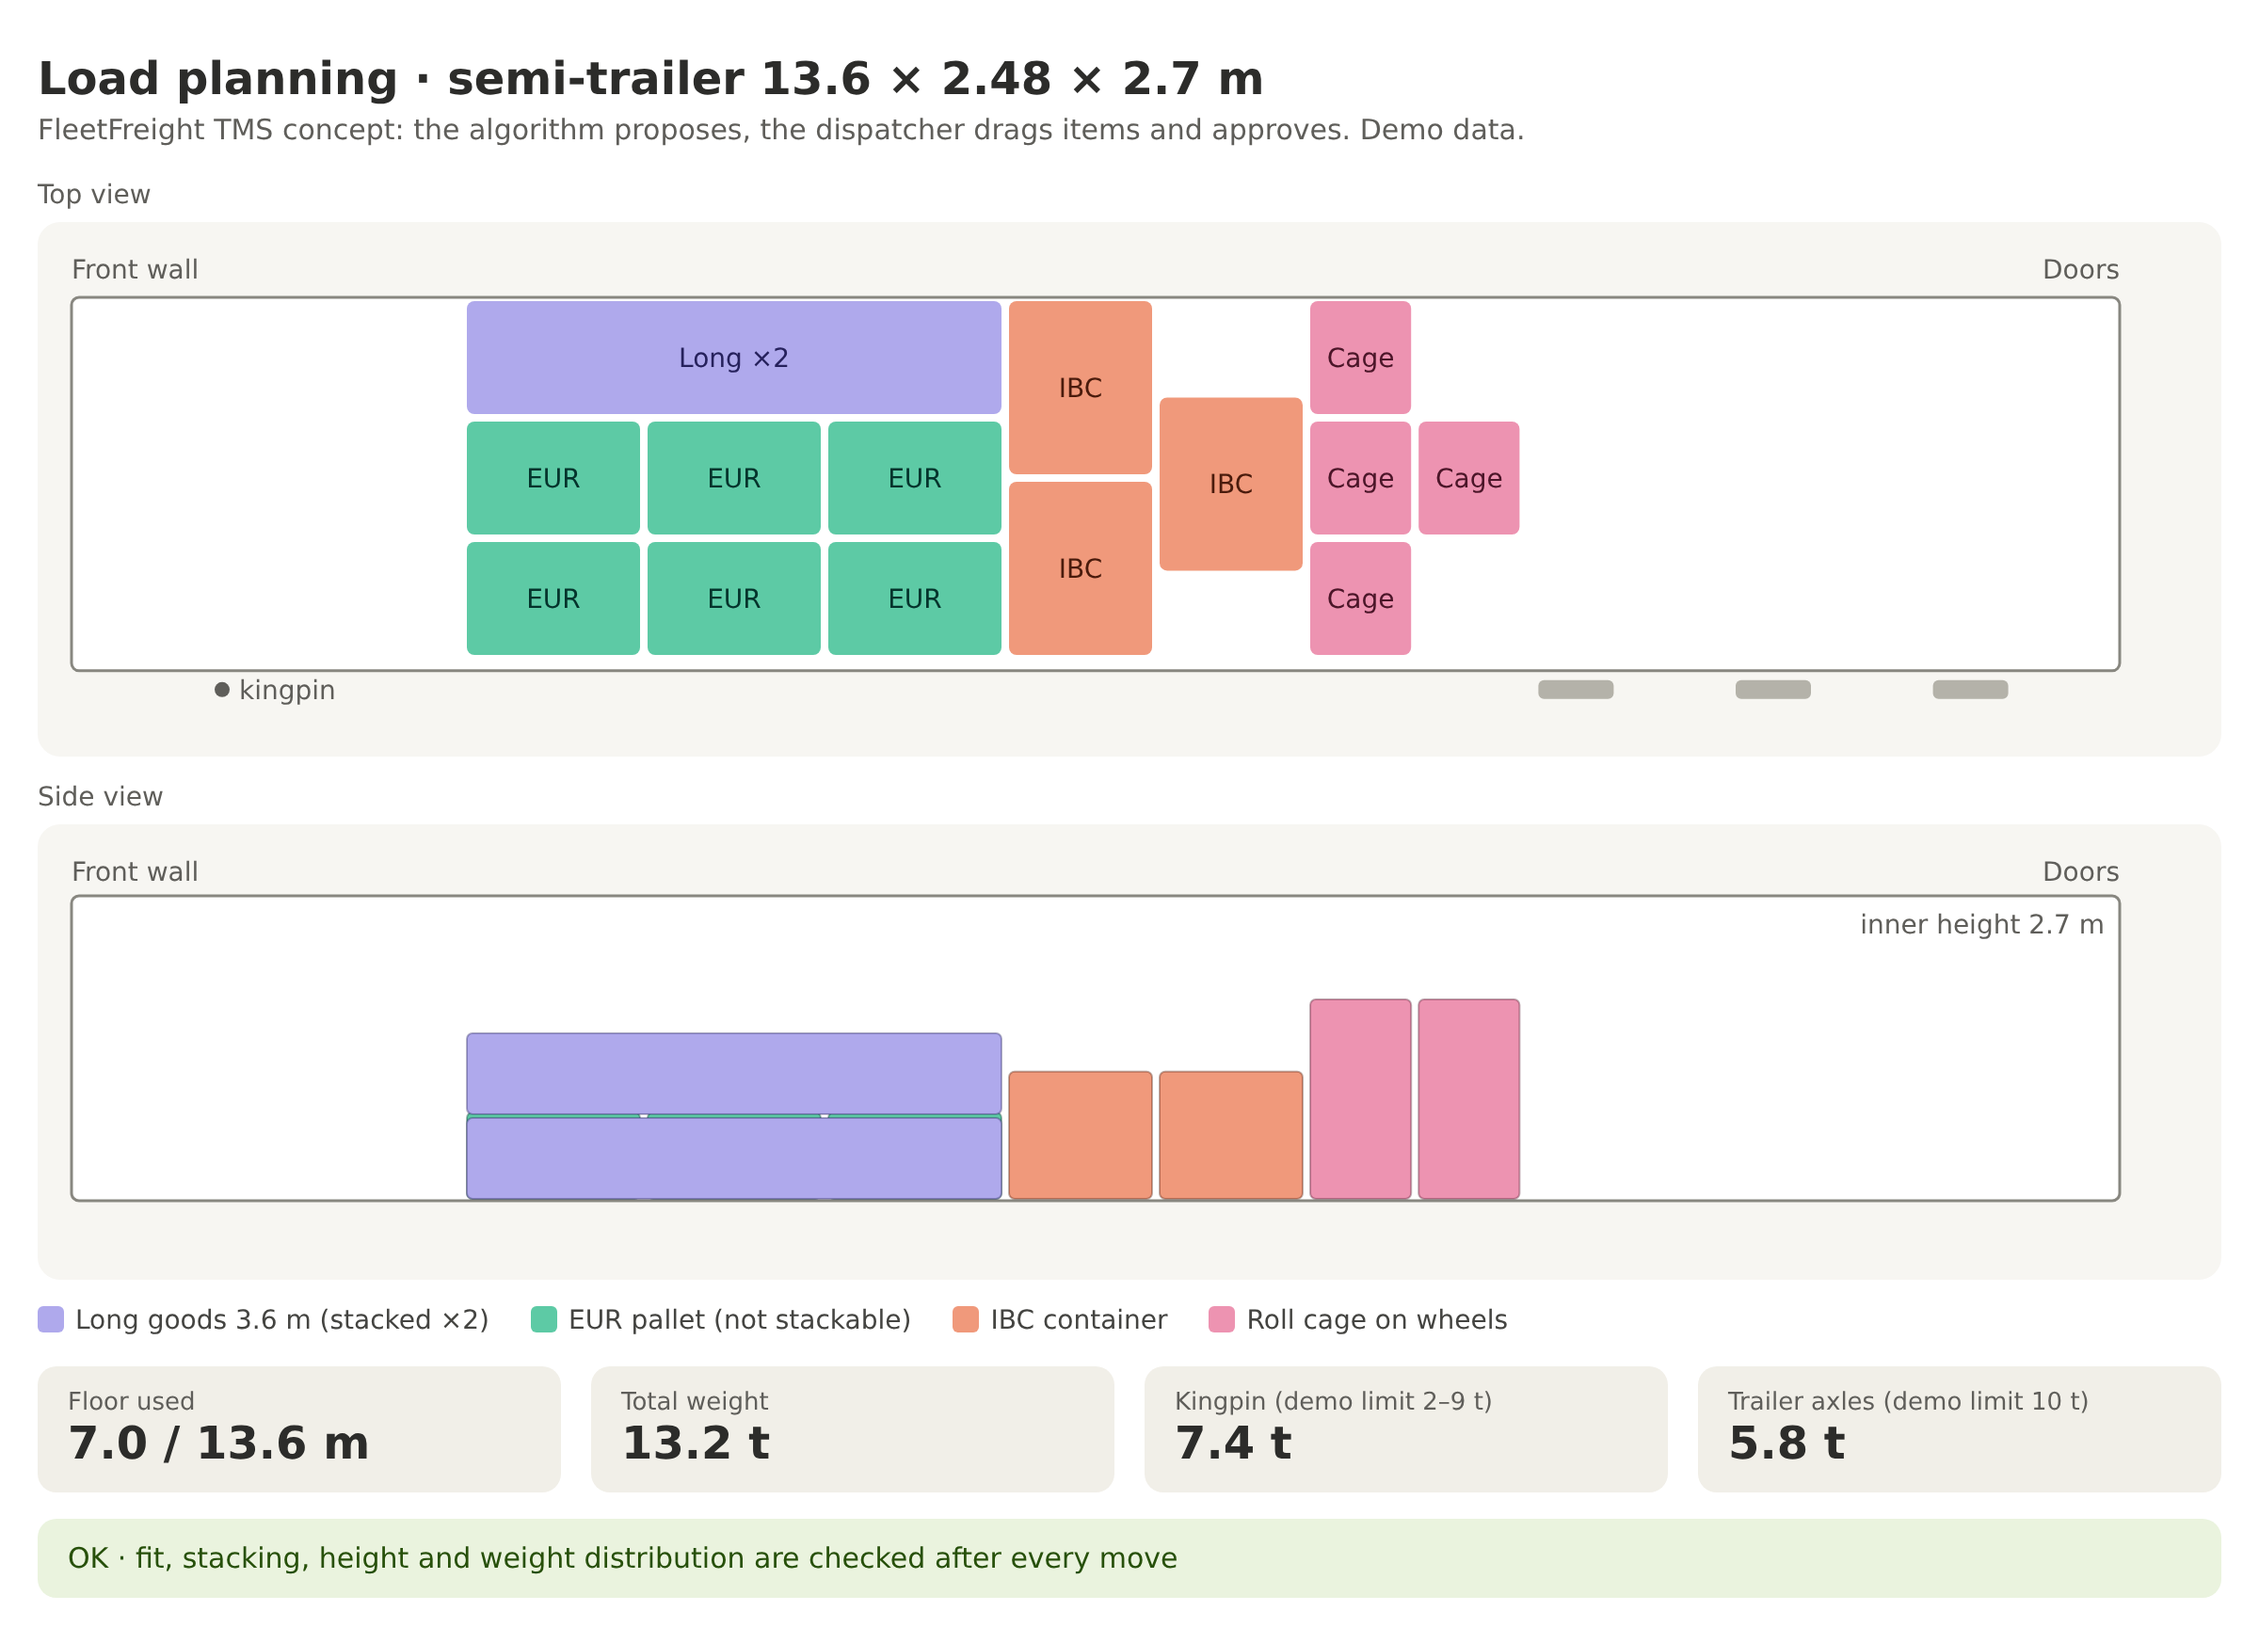
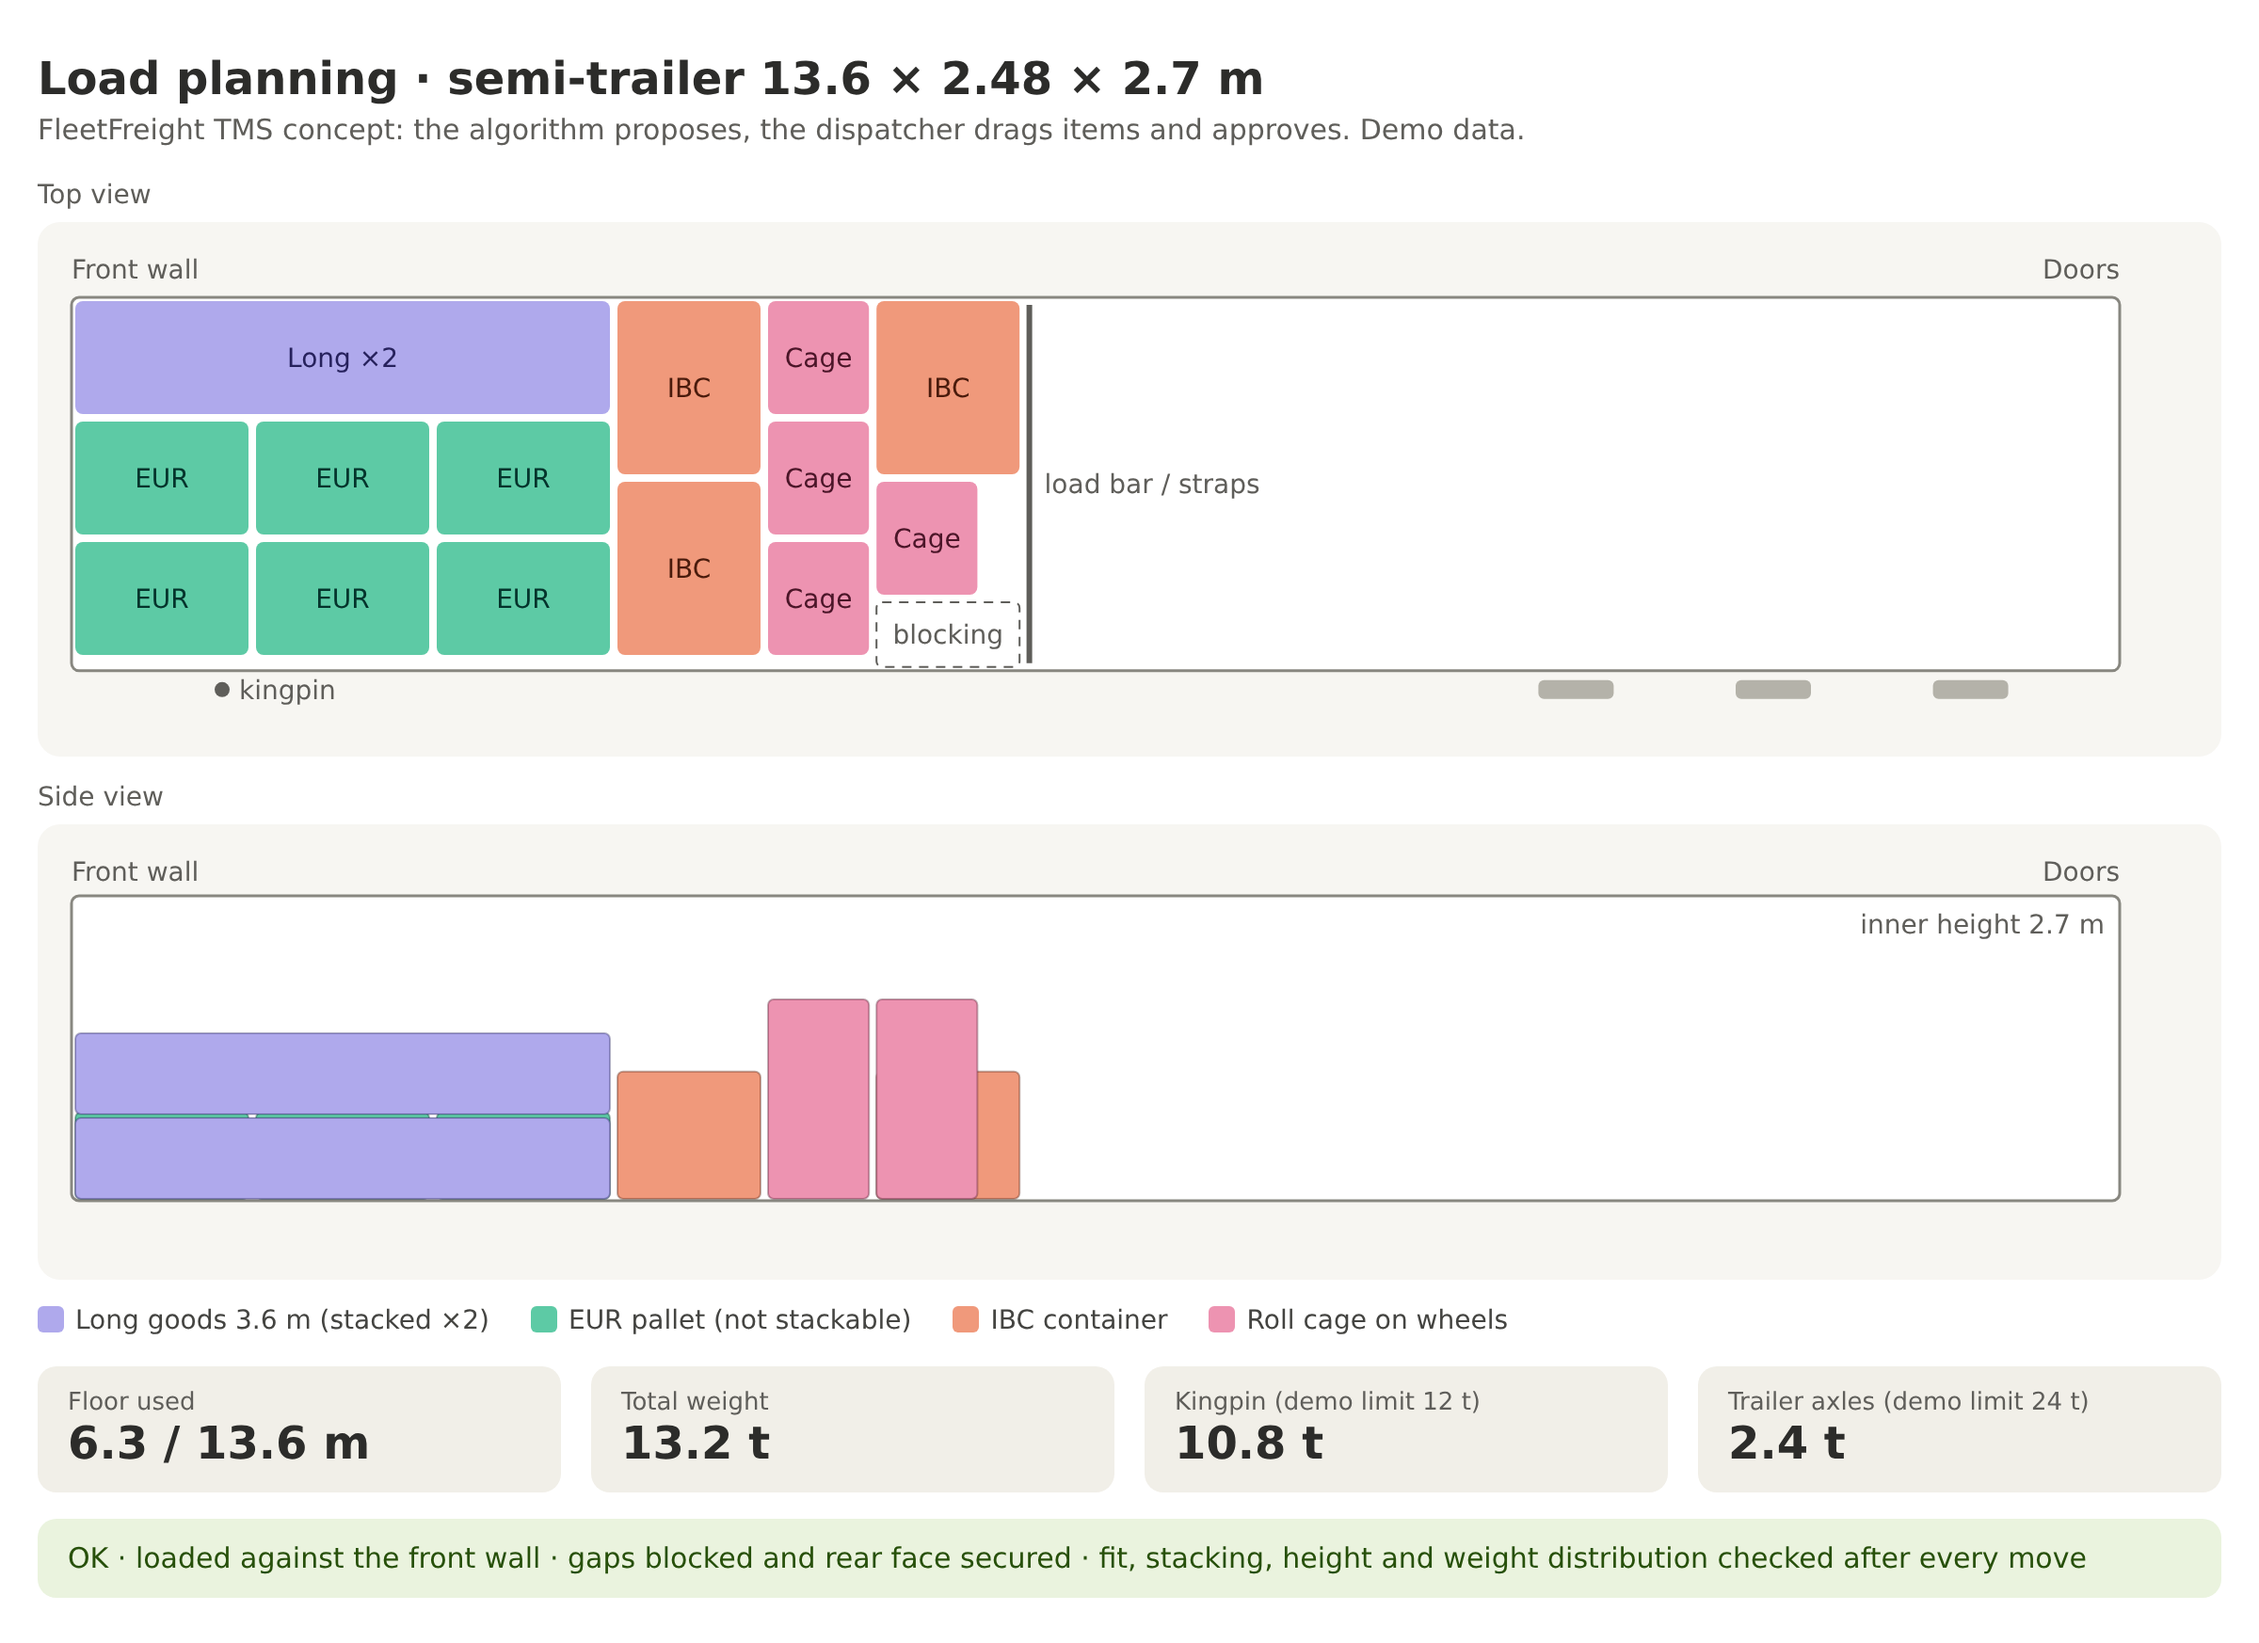
Load the concept images against the front wall
The load now starts at the front wall, IBCs and roll cages sit tight,
the remaining gap is blocked and the rear face secured. The kingpin
and axle figures follow from the new layout.

Claude-Session: https://claude.ai/code/session_01Nsn4RbPU1USiAvFXFpWMMJ

diff --git a/docs/lastaussuunnittelu.md b/docs/lastaussuunnittelu.md
@@ -95,7 +95,7 @@ Rajat kirjataan lähteistä kuten maiden painorajat (D89, D90).
 
 ![3D-näkymä](images/load-planning-3d.png)
 
-Kuvat ovat konseptiluonnoksia demodatalla (englanninkieliset tekstit README:tä varten); IBC:n ja häkkilavan mitat ovat tyyppimittoja, painorajat demoarvoja.
+Kuvat ovat konseptiluonnoksia demodatalla (englanninkieliset tekstit README:tä varten); IBC:n ja häkkilavan mitat ovat tyyppimittoja, painorajat demoarvoja. Kuorma on etuseinää vasten, IBC:t ja häkkilavat tiiviisti; jäljelle jäävä väli tuetaan ja kuorman takapinta varmistetaan (lastaustuki tai sidonta). Siksi suurin osa painosta on vetotapilla.
 
 
 Chatissa 21.11.2026 tehdyt luonnokset: ylänäkymä legivalitsimella ja LIFO-tarkistuksella, sekakuorma
